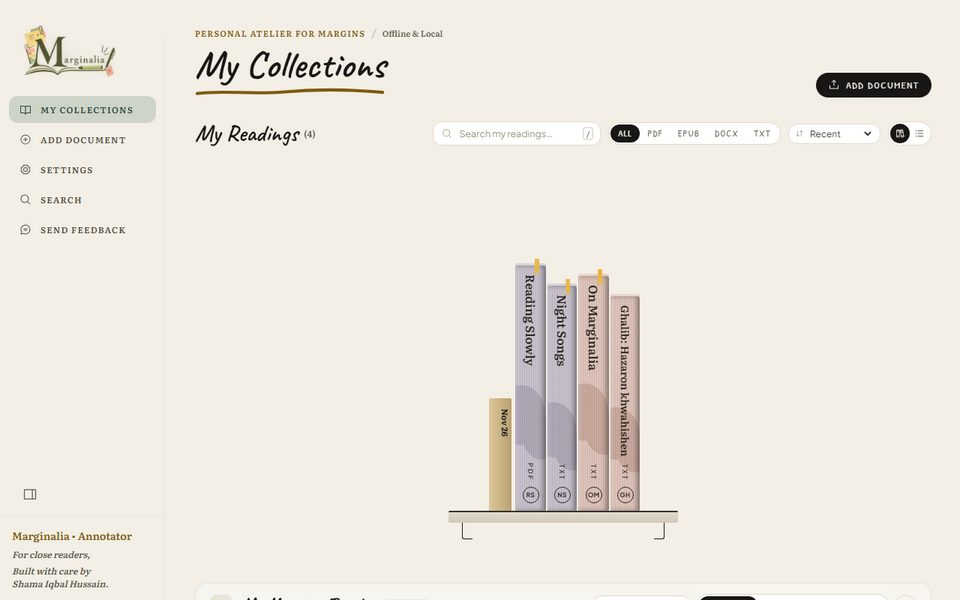
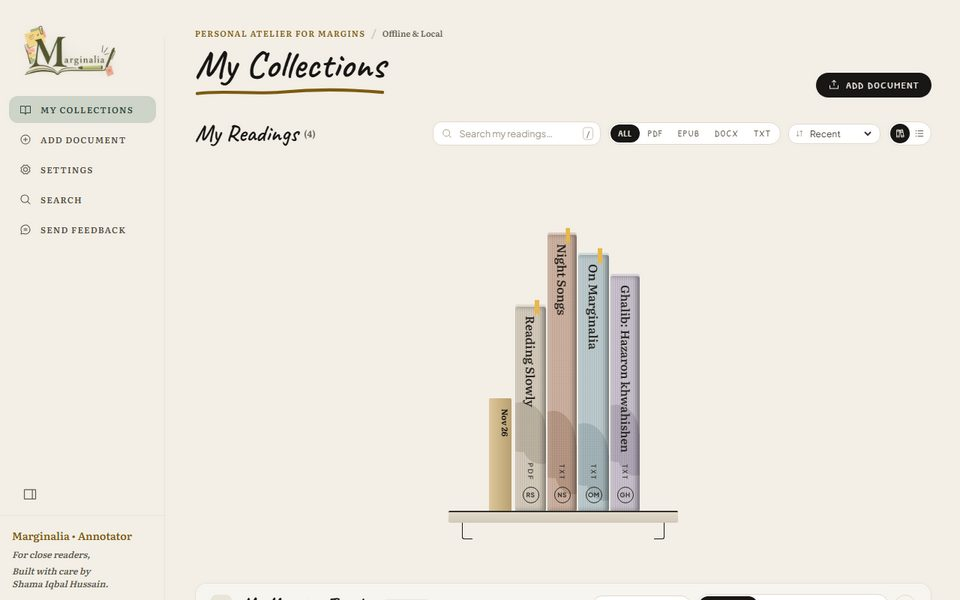
Phase 4: guide covers every feature; fresh-install check
The guide on My Collections adds focus mode, terminology, Black it out,
linked marks, keyboard shortcuts (a key list from the app's own keys),
the marks panel, and import and backups; Fit page and grid captions
updated. New pictures from npm run guide:capture.

e2e-first-run.cjs launches the real app on an empty profile: the tour
shows on a fresh install, Skip is saved in config.json, it does not come
back, and Send feedback opens its dialog. npm run test:e2e runs it.

Changed region(s): [[0.5312, 0.36, 0.6875, 0.87]]

diff --git a/src/data/guide.ts b/src/data/guide.ts
@@ -12,7 +12,25 @@ export interface GuideFeature {
   id: string;
   title: string;
   caption: string;
+  /** A list of keys shown in place of a picture (the keyboard shortcuts card). */
+  keys?: { keys: string; does: string }[];
 }
+
+const MOD = typeof navigator !== 'undefined' && /Mac|iPhone|iPad/.test(navigator.platform || '') ? '⌘' : 'Ctrl+';
+
+/** The keys the app answers to, as the workspace and reader define them (workspaceKeys.ts, FocusMode, FindBar). */
+export const SHORTCUTS: { keys: string; does: string }[] = [
+  { keys: 'H · U · S', does: 'Highlight, underline, strike out (PDF)' },
+  { keys: 'A · P · N', does: 'Area highlight, pen, sticky note (PDF)' },
+  { keys: 'V · E', does: 'Select, erase (PDF)' },
+  { keys: '1 – 9', does: 'Pick a theme; over a selection or a selected mark, turn it on or off' },
+  { keys: '← → · Page Up/Down', does: 'Turn the pages of a two-page spread' },
+  { keys: `${MOD}F`, does: 'Find in the document' },
+  { keys: 'F', does: 'Focus mode' },
+  { keys: `${MOD}Z · ${MOD}Shift+Z`, does: 'Undo, redo (Ctrl+Y also redoes on Windows)' },
+  { keys: 'Delete', does: 'Remove the selected mark' },
+  { keys: 'Esc', does: 'Put the tool down, close a menu' }
+];
 
 export interface GuideGroup {
   id: GuideGroupId;
@@ -29,7 +47,8 @@ export const GUIDE_GROUPS: GuideGroup[] = [
       { id: 'reader', title: 'A page to read and mark', caption: 'Text, EPUB, DOCX and pasted excerpts open in the reader, with your tools along the top.' },
       { id: 'spread', title: 'Two pages, turned like a book', caption: 'The open-book button shows two pages. Turn with the arrows at the edges, the arrow keys, or a sideways swipe.' },
       { id: 'poetry', title: 'Poetry view', caption: 'The feather button keeps a poem’s lines, numbers lines or shers, and underlines the radif and rhyme. Urdu reads right to left in Nastaliq.' },
-      { id: 'pdfgrid', title: 'One, two, four or six PDF pages', caption: 'In a PDF, choose 1, 2, 4 or 6 pages in view from the toolbar. Every page stays markable.' }
+      { id: 'pdfgrid', title: 'One, two, four or six PDF pages', caption: 'In a PDF, choose 1 page, 2 as a book, 4 or 6 in view, or Fit page. In 4 or 6, click a page to open it at reading size.' },
+      { id: 'focus', title: 'Focus mode', caption: 'Press F (or the focus button) and everything but the page steps back. Esc brings it all back.' }
     ]
   },
   {
@@ -38,7 +57,11 @@ export const GUIDE_GROUPS: GuideGroup[] = [
     features: [
       { id: 'popover', title: 'Select words to mark them', caption: 'Select a passage and a menu appears: pick a theme, then highlight, underline, strike out, react, or write a sticky note.' },
       { id: 'overlap', title: 'One passage, several themes', caption: 'Turn on more than one theme in the selection menu, or mark the same words again under another theme: the mark is filed under each, with a small dot for every extra theme.' },
-      { id: 'pdftools', title: 'Drawing on a PDF', caption: 'Pen, shapes, arrows, brackets, text boxes, area highlights and Mask, which drags a solid box over anything to black it out.' }
+      { id: 'terminology', title: 'Terminology', caption: 'The tag button marks a term or piece of jargon, always in the terminology colour set in Settings, and gathers terms in My Margins Tracker.' },
+      { id: 'pdftools', title: 'Drawing on a PDF', caption: 'Pen, shapes, arrows, brackets, sticky notes, text boxes and area highlights over figures and tables.' },
+      { id: 'blackout', title: 'Black it out', caption: 'Hide words (select them), a box (drag it) or anything freehand. When you export, you can remove the hidden words from the PDF too.' },
+      { id: 'links', title: 'Linked marks', caption: 'Link two marks that answer each other, even pages apart, and jump from one to the other.' },
+      { id: 'shortcuts', title: 'Keyboard shortcuts', caption: 'The keys for the tools and moves you use most.', keys: SHORTCUTS }
     ]
   },
   {
@@ -64,6 +87,7 @@ export const GUIDE_GROUPS: GuideGroup[] = [
     features: [
       { id: 'find', title: 'Find in a document', caption: 'Ctrl+F (⌘F on a Mac) finds words in the open document and steps through each one.' },
       { id: 'search', title: 'Search everything', caption: 'Search looks through every document and every mark, note and theme in My Collections.' },
+      { id: 'markspanel', title: 'The marks panel', caption: 'Every mark in the open document, grouped by theme, searchable and filtered by kind. Click one to go to it.' },
       { id: 'motif', title: 'Trace a motif', caption: 'Follow an image or idea across your collections. Each passage opens at its place with the words painted.' }
     ]
   },
@@ -72,6 +96,7 @@ export const GUIDE_GROUPS: GuideGroup[] = [
     title: 'Exporting',
     features: [
       { id: 'export', title: 'Export and the commonplace book', caption: 'Export a book’s marks as PDF, Markdown or text, or as a commonplace book: quotations by theme, cited and ready for an essay.' },
+      { id: 'archive', title: 'Import and backups', caption: 'From Export: save your marks as Markdown or JSON, import marks from a JSON file, or restore one of the five automatic backups of your marks.' },
       { id: 'classpack', title: 'Class packs', caption: 'Save a document with your marks as one file for students. They open it from Add Document, with no account and no internet.' }
     ]
   }

diff --git a/src/components/GuideSection.tsx b/src/components/GuideSection.tsx
@@ -86,6 +86,18 @@ export const GuideSection: React.FC<{ isDark: boolean }> = ({ isDark }) => {
                               className={`w-full rounded-xl border shadow-xs ${isDark ? 'border-stone-800' : 'border-stone-200'}`}
                             />
                           )}
+                          {f.keys && (
+                            <dl className={`rounded-xl border p-3 grid grid-cols-[auto_1fr] gap-x-3 gap-y-1.5 text-[12.5px] ${isDark ? 'border-stone-800 bg-night-1' : 'border-stone-200 bg-white'}`}>
+                              {f.keys.map((k) => (
+                                <React.Fragment key={k.keys}>
+                                  <dt>
+                                    <kbd className="font-mono text-[11.5px] px-1.5 py-0.5 rounded-md border border-stone-300 dark:border-stone-600 whitespace-nowrap">{k.keys}</kbd>
+                                  </dt>
+                                  <dd className="text-stone-700 dark:text-stone-300 leading-snug">{k.does}</dd>
+                                </React.Fragment>
+                              ))}
+                            </dl>
+                          )}
                           <figcaption>
                             <h3 className="font-semibold text-[13.5px] text-stone-900 dark:text-paper">{f.title}</h3>
                             <p className="text-[12.5px] text-muted leading-snug">{f.caption}</p>

diff --git a/CLAUDE.md b/CLAUDE.md
@@ -1,7 +1,8 @@
 # Marginalia: project notes
 
 - Electron + React 19 + Vite + Tailwind 4 + `motion`. Launch with `npm run desktop`, never `npm run dev`.
-- Checks: `npm run build`, then `npm test` (`tsc --noEmit`, which trips on a stale `dist/` if run before the build, then `tsx --test` on every `*.test.ts` in the repo root, `src/` and `electron/`). CI runs the same before building installers. `npm run test:e2e` (builds, then drives the real app on a throwaway library) checks selection and mark creation (e2e-marking.cjs) and page turns and views (e2e-views.cjs).
+- Checks: `npm run build`, then `npm test` (`tsc --noEmit`, which trips on a stale `dist/` if run before the build, then `tsx --test` on every `*.test.ts` in the repo root, `src/` and `electron/`). CI runs the same before building installers. `npm run test:e2e` (builds, then drives the real app on a throwaway library) checks selection and mark creation (e2e-marking.cjs) and page turns and views (e2e-views.cjs), Black it out and redaction (e2e-blackout.cjs), and a fresh install (e2e-first-run.cjs, launches the real app on an empty profile).
+- Feedback form link: `FEEDBACK_URL` in `src/utils/feedback.ts` (empty until the Google Form exists; the dialog then shows the email only).
 - No AI (Gemini) calls unless the user presses a button. Nothing that looks like work on startup, except the update check.
 - The embedded server binds a random port each launch, so localStorage resets every launch. Flags that must survive a restart go in the main-process `config.json` via `updateConfig()` (atomic write).
 - Home library = bookshelf (`src/components/Bookshelf.tsx`, `.shelf-*` in `src/index.css`), modelled on interesting-reads.vercel.app. The shelf background follows the app theme (paper in light, night in dark). The desk area opens smoothly. Spine colours come from a fixed palette. Titles must fit their spine. The desk box is a fixed size. Motion is eased, with no spring or bounce.

diff --git a/README.md b/README.md
@@ -50,6 +50,9 @@ npm test
 several themes (shown with a dot per extra theme), and the reader's marks get their words and theme.
 It also checks the PDF views: a page turn is over within about 800 ms (also with the CPU slowed
 4×), a page opens from the six-page grid, Fit page fits, and a book opens inside a small window.
+It also checks Black it out (Words mode, and that a redacted export holds none of the hidden
+words), and launches the real app on an empty profile to see the first-run tour and the
+feedback dialog.
 
 The guide on My Collections uses real screenshots of the app. After changing anything it shows,
 retake them with `npm run guide:capture` (it uses a throwaway library, never yours).
@@ -71,8 +74,8 @@ notes, themes and settings are stored in your user data folder on this device an
 The only network requests it makes on its own are update checks against GitHub releases.
 The optional AI features are off by default and send text to Google's Gemini only when you turn
 them on, add your own key and press a button. Unexpected errors are written to a local
-`crash.log` in the same folder, which never leaves your computer. "Send feedback" opens an email
-in your own mail app; nothing is sent unless you send it. See [PRIVACY.md](PRIVACY.md) for the
+`crash.log` in the same folder, which never leaves your computer. "Send feedback" opens a dialog with a link to a feedback form
+(hosted by Google, opened in your browser) and our email address; nothing is sent unless you send it. See [PRIVACY.md](PRIVACY.md) for the
 full policy.
 
 ## Licence
